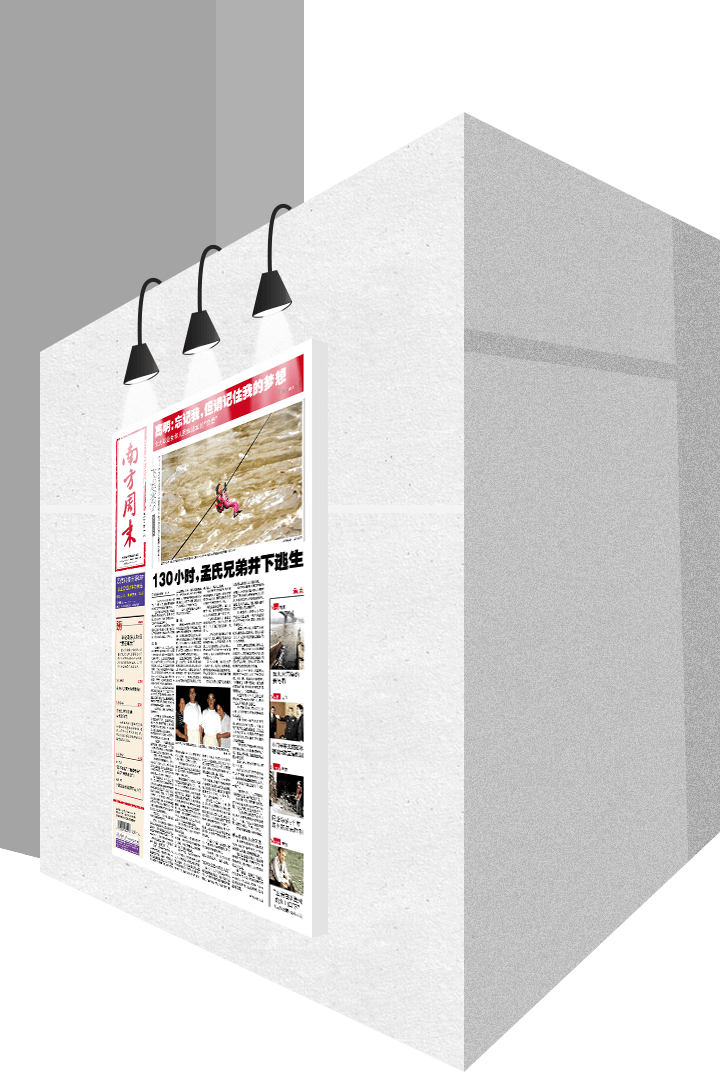
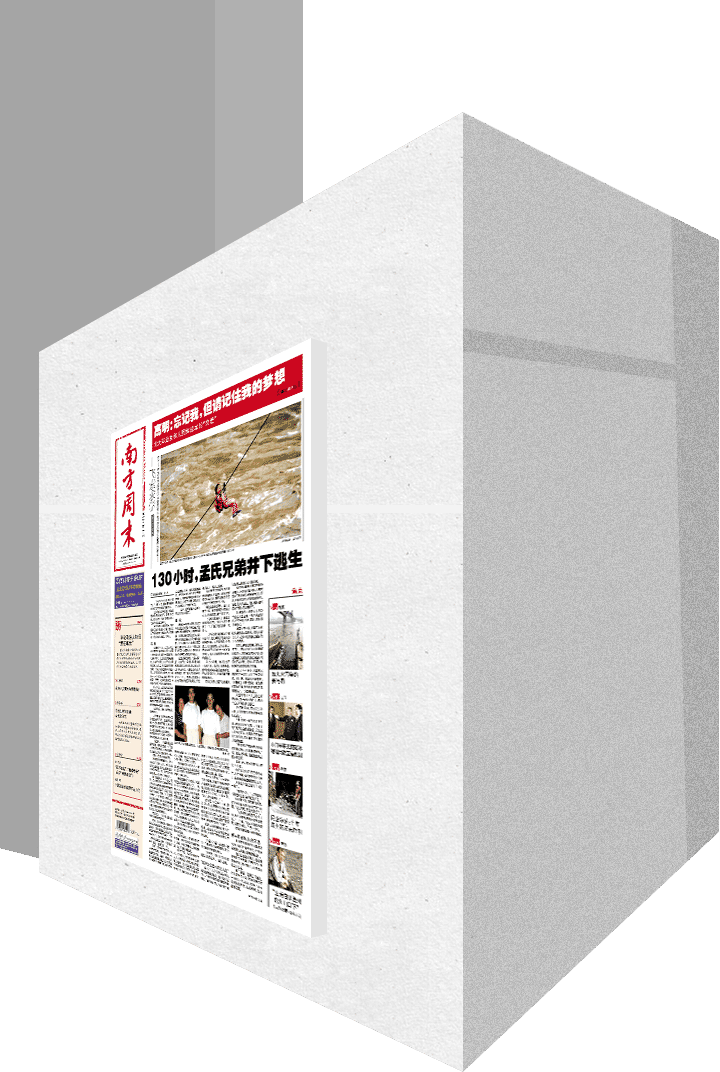
增加动画，增加进入右提示
增加动画，增加进入右提示

diff --git a/style.css b/style.css
@@ -28,6 +28,7 @@ body{
 	background: linear-gradient( top,#999,#ddd);
 	position: relative;
 	-webkit-overflow-scrolling: touch;
+	overflow-scrolling: touch;
 }
 
 .hide{
@@ -143,8 +144,8 @@ b{
 	left: -20px;
 	top: 0;
 	background-repeat: repeat-x;
-	-webkit-animation:bgtop 3s 0s linear infinite alternate;
-	animation:bgtop 3s 0s linear infinite alternate;
+	-webkit-animation:bgtop 5s 0s linear infinite alternate;
+	animation:bgtop 5s 0s linear infinite alternate;
 }
 
 @-webkit-keyframes bgtop{
@@ -222,7 +223,7 @@ b{
 }
 
 .b7{
-	background-image: url(http://i1.tietuku.com/8ccbea8aed5821fb.png);
+	background-image: url(http://i3.tietuku.com/cc818763c5af3c33.png);
 	width: 360px;
 	height: 536px;
 	left: 2479px;
@@ -267,6 +268,7 @@ b{
 	width: 7px;
 	height: 12px;
 	-webkit-animation:arrow 1s 0s linear infinite;
+	animation:arrow 1s 0s linear infinite;
 }
 
 .arrow .arrowout{
@@ -284,38 +286,67 @@ b{
 	top: 104px;
     left: 1268px;
     -webkit-transform: rotate(90deg);
+    transform: rotate(90deg);
 }
 .arrow3{
 	top: 118px;
     left: 1505px;
     -webkit-transform: rotate(90deg);
+    transform: rotate(90deg);
 }
 .arrow4{
 	top: 224px;
     left: 1985px;
     -webkit-transform: rotate(180deg);
+    transform: rotate(180deg);
 }
 .arrow5{
 	top: 224px;
     left: 2190px;
     -webkit-transform: rotate(180deg);
+    transform: rotate(180deg);
 }
 .arrow6{
 	top: 50px;
     left: 2261px;
     -webkit-transform: rotate(90deg);
+    transform: rotate(90deg);
 }
 .arrow7{
 	top: 360px;
     left: 2674px;
     -webkit-transform: rotate(180deg);
+    transform: rotate(180deg);
 }
 .arrow8{
 	top: 189px;
     left: 2886px;
 }
 
+.goright{
+	width: 44px;
+	height: 29px;
+	background-image: url(img/goright.png);
+	left: 138px;
+    top: 430px;
+	-webkit-animation:arrow 1s 0s linear infinite;
+	animation:arrow 1s 0s linear infinite;
+}
+
 @-webkit-keyframes arrow{
+	0%{
+		opacity: 0;
+		-webkit-transform:translate3d(0,0,0);
+		transform:translate3d(0,0,0);
+	}
+	100%{
+		opacity: 1;
+		-webkit-transform:translate3d(7px,0,0);
+		transform:translate3d(7px,0,0);
+	}
+}
+
+@keyframes arrow{
 	0%{
 		opacity: 0;
 		-webkit-transform:translate3d(0,0,0);
@@ -371,9 +402,39 @@ b{
 }
 
 .endlight1{background-image: url(img/lightoff.png);}
-.endlight2{-webkit-animation:light 1s ease-in-out infinite;background-image: url(img/lighton.png);}
+.endlight2{
+	-webkit-animation:light 1s ease-in-out infinite;
+	animation:light 1s ease-in-out infinite;
+	background-image: url(img/lighton.png);}
+
+.threelight1,
+.threelight2{
+	width: 109px;
+	height: 182px;
+	left: 2530px;
+	top: 31px;
+    z-index: 5;
+}
+
+.threelight1{background-image: url(img/threelight-off.png);}
+.threelight2{
+	-webkit-animation:light 2.5s ease-in-out infinite;
+	animation:light 2.5s ease-in-out infinite;
+	background-image: url(img/threelight-on.png);}
 
 @-webkit-keyframes light{
+	0%{
+		opacity: 0;
+	}
+	50%{
+		opacity: 1;
+	}
+	100%{
+		opacity: 0;
+	}
+}
+
+@keyframes light{
 	0%{
 		opacity: 0;
 	}
@@ -536,6 +597,7 @@ b{
 	background-color: #dfdfdf;
 	z-index: 77;
 	-webkit-overflow-scrolling: touch;
+	overflow-scrolling: touch;
 	-webkit-transform:translateY(0);
 	transform:translateY(0);
 }
@@ -552,16 +614,20 @@ b{
 	z-index: 99;
 }
 
+#detail-wrap .lightbar,
 #detail-wrap .light{
 	width: 148px;
 	height: 245px;
-	background-image: url(img/detail-light.png);
 	background-repeat: no-repeat;
 	background-size: 100%;
 	position: absolute;
 	left: 23px;
 	top: 0;
 }
+#detail-wrap .lightbar{background-image: url(img/detail-lightbar.png);z-index: 2;}
+#detail-wrap .light{background-image: url(img/detail-light.png);z-index: 1;left: 0px;width: 171px;
+	-webkit-animation:light 2s ease-in-out infinite alternate;
+	animation:light 2s ease-in-out infinite alternate;}
 
 #detail-wrap .img{
 	display: block;

diff --git a/index.html b/index.html
@@ -41,8 +41,11 @@
 				<b class="stairtips2"></b>
 				<b class="light"></b>
 				<b class="stone"></b>
+				<b class="threelight1"></b>
+				<b class="threelight2"></b>
 				<b class="endlight1"></b>
 				<b class="endlight2"></b>
+				<b class="goright"></b>
 				<div class="arrow arrow1">
 					<b class="arrowin"></b>
 					<b class="arrowout"></b>
@@ -93,6 +96,7 @@
 	<div id="detail-wrap" class="hide">
 		<a href="javascript:;" class="close"></a>
 		<b class="light"></b>
+		<b class="lightbar"></b>
 		<img src="http://i1.tietuku.com/30bcf6c84cdb042e.png" class="img" />
 		<div class="wall">
 			<div class="hd"></div>

diff --git a/js/index.js b/js/index.js
@@ -95,7 +95,7 @@ var MyLoadImage = new LoadImage({
 		'http://i1.tietuku.com/8698aa6c2a63ce73.png',
 		'http://i3.tietuku.com/bd11b94a67a038ac.png',
 		'http://i1.tietuku.com/a46c7aa6ec2cb305.png',
-		'http://i1.tietuku.com/8ccbea8aed5821fb.png',
+		'http://i3.tietuku.com/cc818763c5af3c33.png',
 		'http://i1.tietuku.com/71db5a14460f8e97.png',
 		'http://i1.tietuku.com/f46b17a581bc4b17.png',
 		'http://i1.tietuku.com/ec4a04af9ed8b6a5.png',
